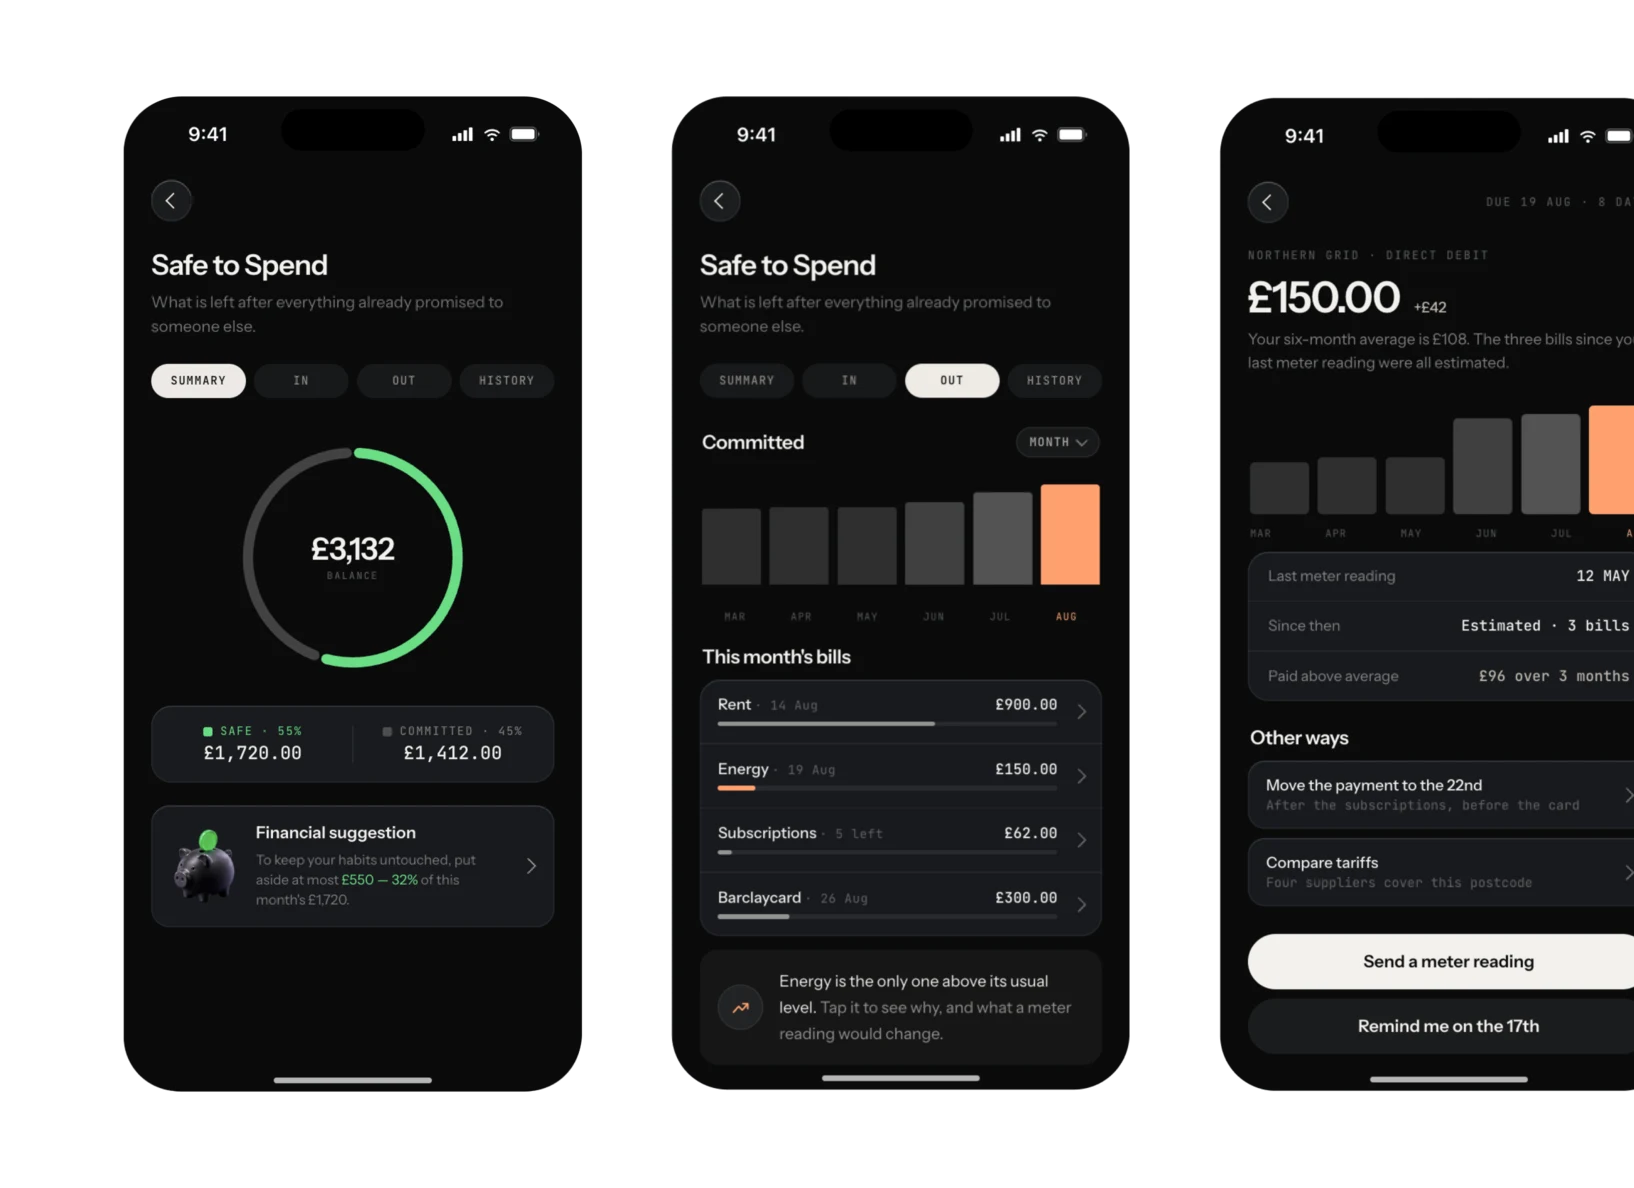
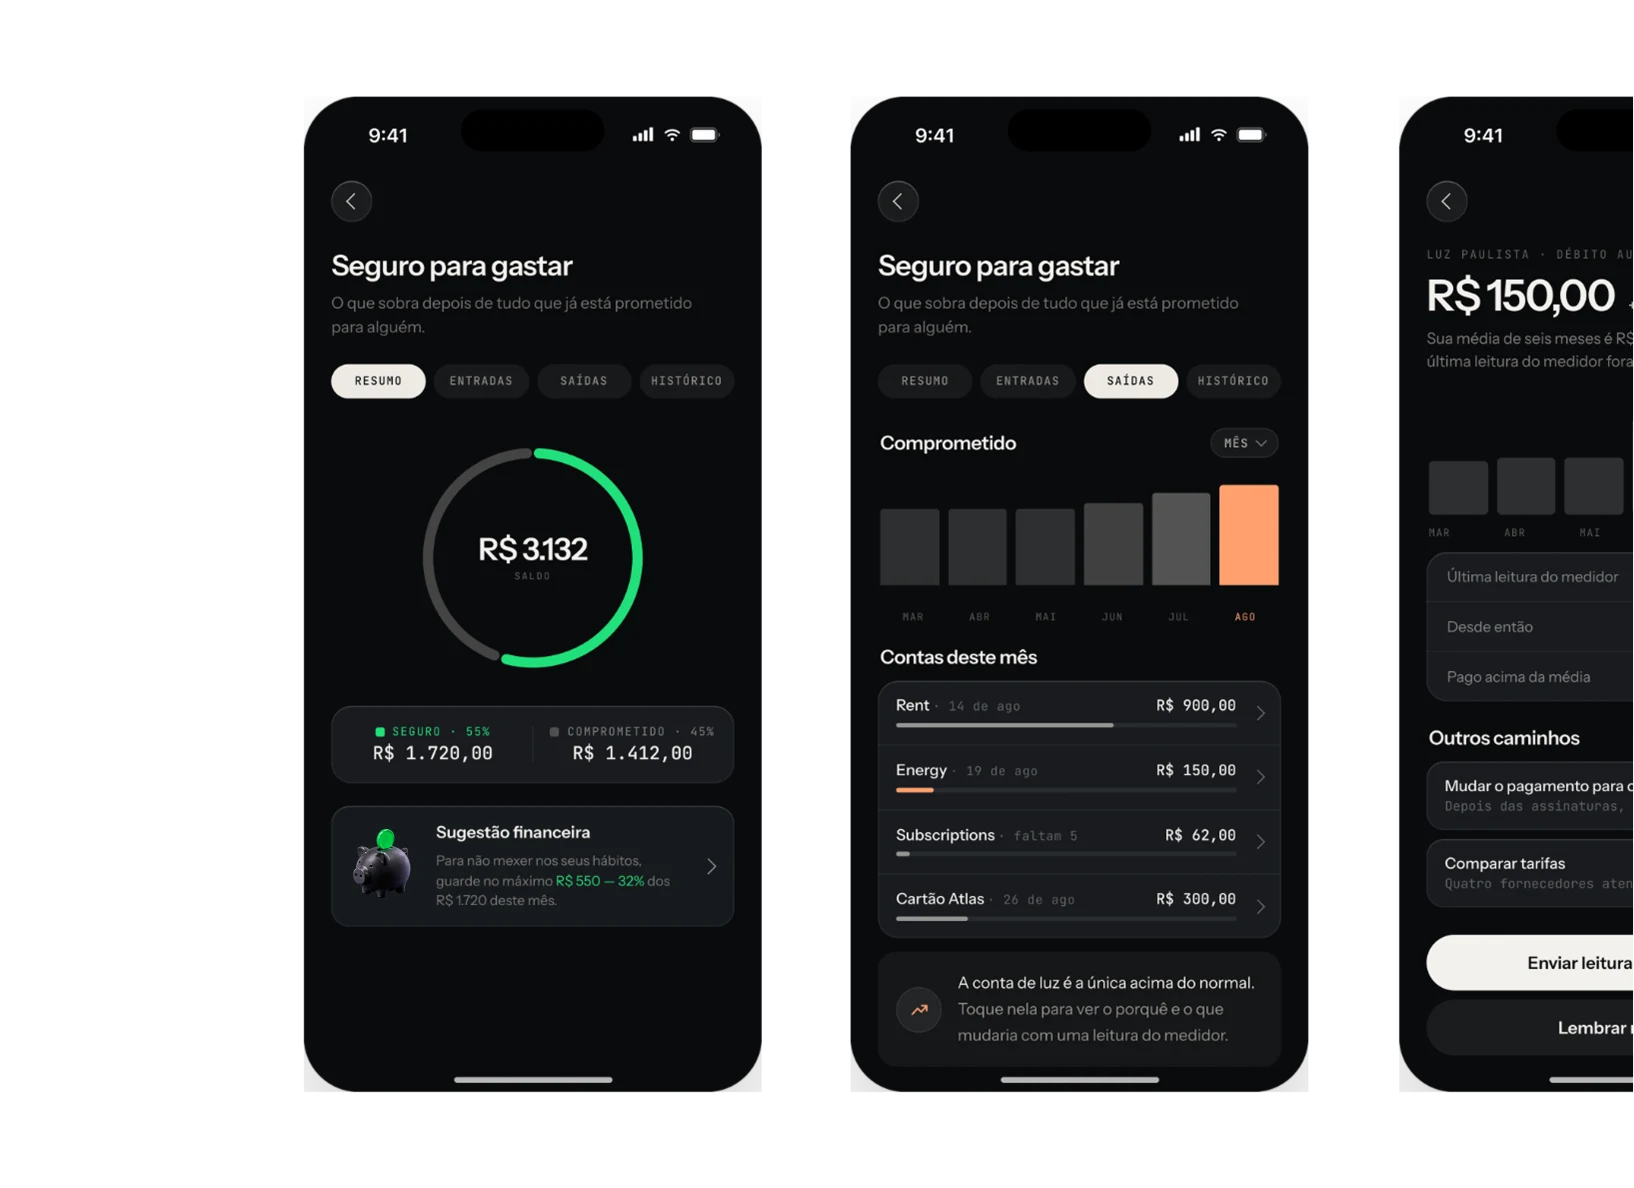
Meridian: imagens do Problema, Estratégia e faixa de telas em português
Home, telas do Seguro para gastar e as cinco telas do app agora em PT (R$),
usadas nas duas versões do site. Convertidas dos PNGs novos para webp q=88,
mesmos nomes e resoluções das anteriores (1634x1188 e 2560x922): 32, 66 e
95 KB. O texto alternativo das duas primeiras passa a dizer Seguro para gastar.

diff --git a/index.html b/index.html
@@ -734,14 +734,14 @@ window.MERIDIAN_SYMBOL = { w: 494, h: 348, cells: "386,15,6,6,0.56;108,17,5,5,0.
         <h2 style="font-size: 1.0625rem; font-weight: 400; letter-spacing: -0.0125rem; margin: 0; line-height: 1.3;">{{ mer.s2title }}</h2>
         {{ merEl.s2 }}
       </div>
-      <div style="height: {{ mediaH }}; border-radius: 1rem; overflow: hidden; background: #191919;"><img loading="lazy" decoding="async" src="/assets/meridian/opt/problema-home-3.webp" alt="Meridian — home com Safe to Spend" style="width: 100%; height: 100%; object-fit: cover; display: block;"></div>
+      <div style="height: {{ mediaH }}; border-radius: 1rem; overflow: hidden; background: #191919;"><img loading="lazy" decoding="async" src="/assets/meridian/opt/problema-home-3.webp" alt="Meridian — home com Seguro para gastar" style="width: 100%; height: 100%; object-fit: cover; display: block;"></div>
     </div>
     <div style="display: grid; grid-template-columns: {{ caseCols }}; gap: 1.25rem; padding: 4.5rem 0;">
       <div style="display: flex; flex-direction: column; align-items: flex-start; gap: 3rem;">
         <h2 style="font-size: 1.0625rem; font-weight: 400; letter-spacing: -0.0125rem; margin: 0; line-height: 1.3;">{{ mer.s3title }}</h2>
         {{ merEl.s3 }}
       </div>
-      <div style="height: {{ mediaH }}; border-radius: 1rem; overflow: hidden; background: #191919;"><img loading="lazy" decoding="async" src="/assets/meridian/opt/estrategia-sts.webp" alt="Meridian — Safe to Spend" style="width: 100%; height: 100%; object-fit: cover; display: block;"></div>
+      <div style="height: {{ mediaH }}; border-radius: 1rem; overflow: hidden; background: #191919;"><img loading="lazy" decoding="async" src="/assets/meridian/opt/estrategia-sts.webp" alt="Meridian — Seguro para gastar" style="width: 100%; height: 100%; object-fit: cover; display: block;"></div>
     </div>
     <div style="display: flex; flex-direction: column; gap: 1.25rem; padding: 4.5rem 0;">
       <div style="border-radius: 1rem; overflow: hidden; background: #191919; display: flex; align-items: center; justify-content: center;"><img loading="lazy" decoding="async" src="/assets/meridian/opt/five-screens-2.webp" alt="Meridian — telas do app" style="width: 100%; display: block;"></div>

diff --git a/projetos/mercado-bitcoin/index.html b/projetos/mercado-bitcoin/index.html
@@ -734,14 +734,14 @@ window.MERIDIAN_SYMBOL = { w: 494, h: 348, cells: "386,15,6,6,0.56;108,17,5,5,0.
         <h2 style="font-size: 1.0625rem; font-weight: 400; letter-spacing: -0.0125rem; margin: 0; line-height: 1.3;">{{ mer.s2title }}</h2>
         {{ merEl.s2 }}
       </div>
-      <div style="height: {{ mediaH }}; border-radius: 1rem; overflow: hidden; background: #191919;"><img loading="lazy" decoding="async" src="/assets/meridian/opt/problema-home-3.webp" alt="Meridian — home com Safe to Spend" style="width: 100%; height: 100%; object-fit: cover; display: block;"></div>
+      <div style="height: {{ mediaH }}; border-radius: 1rem; overflow: hidden; background: #191919;"><img loading="lazy" decoding="async" src="/assets/meridian/opt/problema-home-3.webp" alt="Meridian — home com Seguro para gastar" style="width: 100%; height: 100%; object-fit: cover; display: block;"></div>
     </div>
     <div style="display: grid; grid-template-columns: {{ caseCols }}; gap: 1.25rem; padding: 4.5rem 0;">
       <div style="display: flex; flex-direction: column; align-items: flex-start; gap: 3rem;">
         <h2 style="font-size: 1.0625rem; font-weight: 400; letter-spacing: -0.0125rem; margin: 0; line-height: 1.3;">{{ mer.s3title }}</h2>
         {{ merEl.s3 }}
       </div>
-      <div style="height: {{ mediaH }}; border-radius: 1rem; overflow: hidden; background: #191919;"><img loading="lazy" decoding="async" src="/assets/meridian/opt/estrategia-sts.webp" alt="Meridian — Safe to Spend" style="width: 100%; height: 100%; object-fit: cover; display: block;"></div>
+      <div style="height: {{ mediaH }}; border-radius: 1rem; overflow: hidden; background: #191919;"><img loading="lazy" decoding="async" src="/assets/meridian/opt/estrategia-sts.webp" alt="Meridian — Seguro para gastar" style="width: 100%; height: 100%; object-fit: cover; display: block;"></div>
     </div>
     <div style="display: flex; flex-direction: column; gap: 1.25rem; padding: 4.5rem 0;">
       <div style="border-radius: 1rem; overflow: hidden; background: #191919; display: flex; align-items: center; justify-content: center;"><img loading="lazy" decoding="async" src="/assets/meridian/opt/five-screens-2.webp" alt="Meridian — telas do app" style="width: 100%; display: block;"></div>

diff --git a/projetos/meridian/index.html b/projetos/meridian/index.html
@@ -734,14 +734,14 @@ window.MERIDIAN_SYMBOL = { w: 494, h: 348, cells: "386,15,6,6,0.56;108,17,5,5,0.
         <h2 style="font-size: 1.0625rem; font-weight: 400; letter-spacing: -0.0125rem; margin: 0; line-height: 1.3;">{{ mer.s2title }}</h2>
         {{ merEl.s2 }}
       </div>
-      <div style="height: {{ mediaH }}; border-radius: 1rem; overflow: hidden; background: #191919;"><img loading="lazy" decoding="async" src="/assets/meridian/opt/problema-home-3.webp" alt="Meridian — home com Safe to Spend" style="width: 100%; height: 100%; object-fit: cover; display: block;"></div>
+      <div style="height: {{ mediaH }}; border-radius: 1rem; overflow: hidden; background: #191919;"><img loading="lazy" decoding="async" src="/assets/meridian/opt/problema-home-3.webp" alt="Meridian — home com Seguro para gastar" style="width: 100%; height: 100%; object-fit: cover; display: block;"></div>
     </div>
     <div style="display: grid; grid-template-columns: {{ caseCols }}; gap: 1.25rem; padding: 4.5rem 0;">
       <div style="display: flex; flex-direction: column; align-items: flex-start; gap: 3rem;">
         <h2 style="font-size: 1.0625rem; font-weight: 400; letter-spacing: -0.0125rem; margin: 0; line-height: 1.3;">{{ mer.s3title }}</h2>
         {{ merEl.s3 }}
       </div>
-      <div style="height: {{ mediaH }}; border-radius: 1rem; overflow: hidden; background: #191919;"><img loading="lazy" decoding="async" src="/assets/meridian/opt/estrategia-sts.webp" alt="Meridian — Safe to Spend" style="width: 100%; height: 100%; object-fit: cover; display: block;"></div>
+      <div style="height: {{ mediaH }}; border-radius: 1rem; overflow: hidden; background: #191919;"><img loading="lazy" decoding="async" src="/assets/meridian/opt/estrategia-sts.webp" alt="Meridian — Seguro para gastar" style="width: 100%; height: 100%; object-fit: cover; display: block;"></div>
     </div>
     <div style="display: flex; flex-direction: column; gap: 1.25rem; padding: 4.5rem 0;">
       <div style="border-radius: 1rem; overflow: hidden; background: #191919; display: flex; align-items: center; justify-content: center;"><img loading="lazy" decoding="async" src="/assets/meridian/opt/five-screens-2.webp" alt="Meridian — telas do app" style="width: 100%; display: block;"></div>

diff --git a/projetos/sanctu-land-design/index.html b/projetos/sanctu-land-design/index.html
@@ -731,14 +731,14 @@ window.MERIDIAN_SYMBOL = { w: 494, h: 348, cells: "386,15,6,6,0.56;108,17,5,5,0.
         <h2 style="font-size: 1.0625rem; font-weight: 400; letter-spacing: -0.0125rem; margin: 0; line-height: 1.3;">{{ mer.s2title }}</h2>
         {{ merEl.s2 }}
       </div>
-      <div style="height: {{ mediaH }}; border-radius: 1rem; overflow: hidden; background: #191919;"><img loading="lazy" decoding="async" src="/assets/meridian/opt/problema-home-3.webp" alt="Meridian — home com Safe to Spend" style="width: 100%; height: 100%; object-fit: cover; display: block;"></div>
+      <div style="height: {{ mediaH }}; border-radius: 1rem; overflow: hidden; background: #191919;"><img loading="lazy" decoding="async" src="/assets/meridian/opt/problema-home-3.webp" alt="Meridian — home com Seguro para gastar" style="width: 100%; height: 100%; object-fit: cover; display: block;"></div>
     </div>
     <div style="display: grid; grid-template-columns: {{ caseCols }}; gap: 1.25rem; padding: 4.5rem 0;">
       <div style="display: flex; flex-direction: column; align-items: flex-start; gap: 3rem;">
         <h2 style="font-size: 1.0625rem; font-weight: 400; letter-spacing: -0.0125rem; margin: 0; line-height: 1.3;">{{ mer.s3title }}</h2>
         {{ merEl.s3 }}
       </div>
-      <div style="height: {{ mediaH }}; border-radius: 1rem; overflow: hidden; background: #191919;"><img loading="lazy" decoding="async" src="/assets/meridian/opt/estrategia-sts.webp" alt="Meridian — Safe to Spend" style="width: 100%; height: 100%; object-fit: cover; display: block;"></div>
+      <div style="height: {{ mediaH }}; border-radius: 1rem; overflow: hidden; background: #191919;"><img loading="lazy" decoding="async" src="/assets/meridian/opt/estrategia-sts.webp" alt="Meridian — Seguro para gastar" style="width: 100%; height: 100%; object-fit: cover; display: block;"></div>
     </div>
     <div style="display: flex; flex-direction: column; gap: 1.25rem; padding: 4.5rem 0;">
       <div style="border-radius: 1rem; overflow: hidden; background: #191919; display: flex; align-items: center; justify-content: center;"><img loading="lazy" decoding="async" src="/assets/meridian/opt/five-screens-2.webp" alt="Meridian — telas do app" style="width: 100%; display: block;"></div>

diff --git a/projetos/sanctu-monitoring/index.html b/projetos/sanctu-monitoring/index.html
@@ -731,14 +731,14 @@ window.MERIDIAN_SYMBOL = { w: 494, h: 348, cells: "386,15,6,6,0.56;108,17,5,5,0.
         <h2 style="font-size: 1.0625rem; font-weight: 400; letter-spacing: -0.0125rem; margin: 0; line-height: 1.3;">{{ mer.s2title }}</h2>
         {{ merEl.s2 }}
       </div>
-      <div style="height: {{ mediaH }}; border-radius: 1rem; overflow: hidden; background: #191919;"><img loading="lazy" decoding="async" src="/assets/meridian/opt/problema-home-3.webp" alt="Meridian — home com Safe to Spend" style="width: 100%; height: 100%; object-fit: cover; display: block;"></div>
+      <div style="height: {{ mediaH }}; border-radius: 1rem; overflow: hidden; background: #191919;"><img loading="lazy" decoding="async" src="/assets/meridian/opt/problema-home-3.webp" alt="Meridian — home com Seguro para gastar" style="width: 100%; height: 100%; object-fit: cover; display: block;"></div>
     </div>
     <div style="display: grid; grid-template-columns: {{ caseCols }}; gap: 1.25rem; padding: 4.5rem 0;">
       <div style="display: flex; flex-direction: column; align-items: flex-start; gap: 3rem;">
         <h2 style="font-size: 1.0625rem; font-weight: 400; letter-spacing: -0.0125rem; margin: 0; line-height: 1.3;">{{ mer.s3title }}</h2>
         {{ merEl.s3 }}
       </div>
-      <div style="height: {{ mediaH }}; border-radius: 1rem; overflow: hidden; background: #191919;"><img loading="lazy" decoding="async" src="/assets/meridian/opt/estrategia-sts.webp" alt="Meridian — Safe to Spend" style="width: 100%; height: 100%; object-fit: cover; display: block;"></div>
+      <div style="height: {{ mediaH }}; border-radius: 1rem; overflow: hidden; background: #191919;"><img loading="lazy" decoding="async" src="/assets/meridian/opt/estrategia-sts.webp" alt="Meridian — Seguro para gastar" style="width: 100%; height: 100%; object-fit: cover; display: block;"></div>
     </div>
     <div style="display: flex; flex-direction: column; gap: 1.25rem; padding: 4.5rem 0;">
       <div style="border-radius: 1rem; overflow: hidden; background: #191919; display: flex; align-items: center; justify-content: center;"><img loading="lazy" decoding="async" src="/assets/meridian/opt/five-screens-2.webp" alt="Meridian — telas do app" style="width: 100%; display: block;"></div>

diff --git a/projetos/sanctu/index.html b/projetos/sanctu/index.html
@@ -734,14 +734,14 @@ window.MERIDIAN_SYMBOL = { w: 494, h: 348, cells: "386,15,6,6,0.56;108,17,5,5,0.
         <h2 style="font-size: 1.0625rem; font-weight: 400; letter-spacing: -0.0125rem; margin: 0; line-height: 1.3;">{{ mer.s2title }}</h2>
         {{ merEl.s2 }}
       </div>
-      <div style="height: {{ mediaH }}; border-radius: 1rem; overflow: hidden; background: #191919;"><img loading="lazy" decoding="async" src="/assets/meridian/opt/problema-home-3.webp" alt="Meridian — home com Safe to Spend" style="width: 100%; height: 100%; object-fit: cover; display: block;"></div>
+      <div style="height: {{ mediaH }}; border-radius: 1rem; overflow: hidden; background: #191919;"><img loading="lazy" decoding="async" src="/assets/meridian/opt/problema-home-3.webp" alt="Meridian — home com Seguro para gastar" style="width: 100%; height: 100%; object-fit: cover; display: block;"></div>
     </div>
     <div style="display: grid; grid-template-columns: {{ caseCols }}; gap: 1.25rem; padding: 4.5rem 0;">
       <div style="display: flex; flex-direction: column; align-items: flex-start; gap: 3rem;">
         <h2 style="font-size: 1.0625rem; font-weight: 400; letter-spacing: -0.0125rem; margin: 0; line-height: 1.3;">{{ mer.s3title }}</h2>
         {{ merEl.s3 }}
       </div>
-      <div style="height: {{ mediaH }}; border-radius: 1rem; overflow: hidden; background: #191919;"><img loading="lazy" decoding="async" src="/assets/meridian/opt/estrategia-sts.webp" alt="Meridian — Safe to Spend" style="width: 100%; height: 100%; object-fit: cover; display: block;"></div>
+      <div style="height: {{ mediaH }}; border-radius: 1rem; overflow: hidden; background: #191919;"><img loading="lazy" decoding="async" src="/assets/meridian/opt/estrategia-sts.webp" alt="Meridian — Seguro para gastar" style="width: 100%; height: 100%; object-fit: cover; display: block;"></div>
     </div>
     <div style="display: flex; flex-direction: column; gap: 1.25rem; padding: 4.5rem 0;">
       <div style="border-radius: 1rem; overflow: hidden; background: #191919; display: flex; align-items: center; justify-content: center;"><img loading="lazy" decoding="async" src="/assets/meridian/opt/five-screens-2.webp" alt="Meridian — telas do app" style="width: 100%; display: block;"></div>
